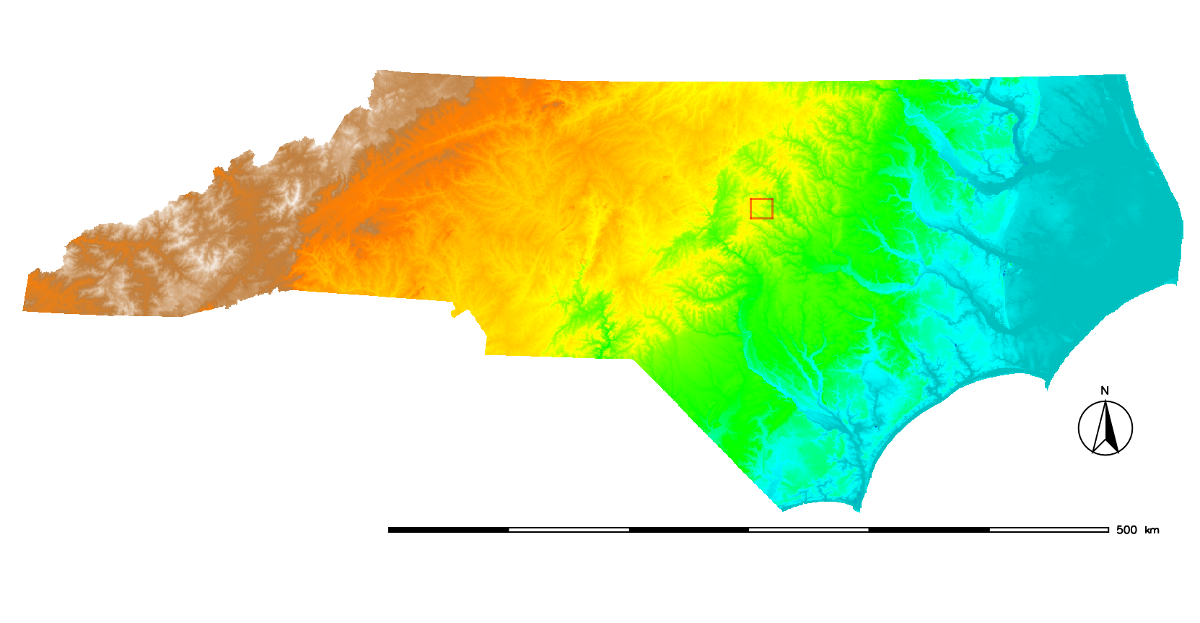
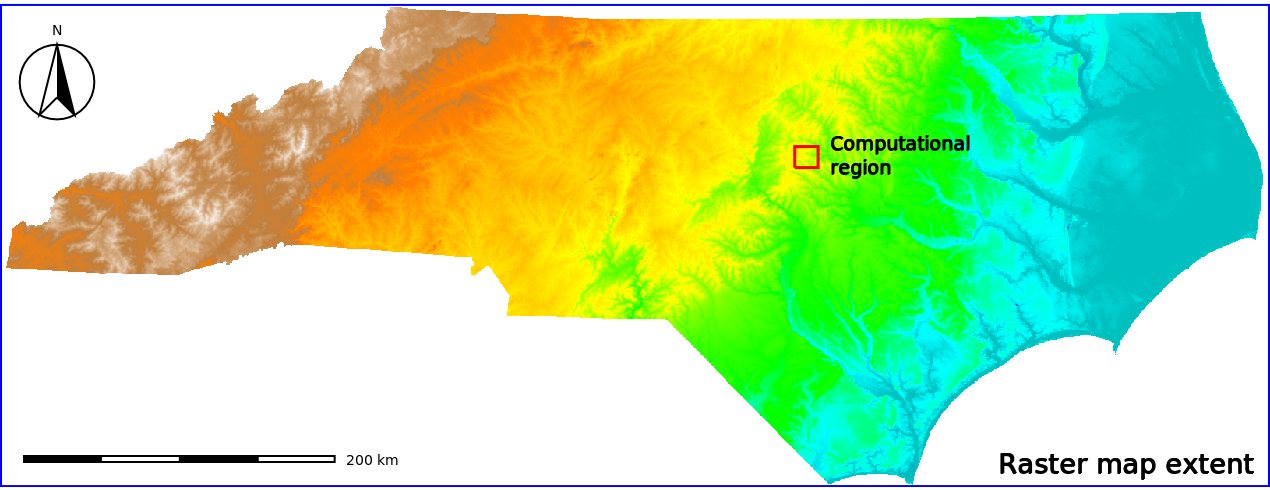
adding several new screenshots, modified index file

diff --git a/index.html b/index.html
@@ -56,7 +56,7 @@ TODO: add 2 more animations or screenshots
         <li><a href="#guidedtour">Working with GRASS GIS: A guided tour</a></li>
         <li><a href="#handson-optatives">Choose your own adventure: 3 hands-on exercises</a></li>
         <ul>
-			<li><a href="#time-series">Time series in GRASS GIS</a></li>
+			<li><a href="time_series_exercise.html" target="_blank">Time series in GRASS GIS</a></li>
 			<li><a href="#L8-remotesensing">Remote sensing</a></li>
 			<li><a href="#paulo">Spatial interpolation?</a></li>
 <!--
@@ -97,14 +97,16 @@ TODO: @Paulo and @Sajid: please add here links to the data you will use (if need
     <h2><a name="grassgisintro">GRASS GIS introduction</a></h2>
 
     Working with GRASS GIS is not much different than any other GIS. Just a few commonly used terms need to be introduced first.
+    <div class="imagebox">
+		<img style="width: 40%;" src="images/start_screen_grass723.png" alt="GRASS start screen" title="GRASS start screen"><br>
+        GRASS GIS start screen: GRASS database, Location and Mapset wizard
+    </div>
 
-    <h3>Basic concepts: GRASS DATABASE, LOCATION and MAPSET</h3>
-    
+    <h3>Basic concepts: GRASS DATABASE, LOCATION and MAPSET</h3>  
     The <b>GRASS DATABASE</b> (also called "GISDBASE") is an existing directory which contains all GRASS GIS projects. These projects are organized in subdirectories called LOCATIONs.<br>
     A <b>LOCATION</b> is defined by its coordinate system, map projection and geographical boundaries. All data within one Location has the same coordinate reference system.<br>
-    <b>MAPSETs</b> are subdirectories within Locations. In a <b>MAPSET</b> you can organize GIS maps thematically, geographically, by project or however you prefer.<br>
-    <p>Within each Location, a mandatory <b>PERMANENT</b> Mapset exists. This mapset can contain commonly used data within a Location such as base maps. The PERMANENT Mapset also contains metadata related to the Location it belongs to such as projection. When GRASS GIS is started, it connects to a Database, Location and Mapset specified by the user.</p>
-    
+    <b>MAPSETs</b> are subdirectories within Locations. In a <b>MAPSET</b> you can organize GIS maps thematically, geographically, by project or however you prefer. Mapsets can also be named after users, for example.<br>
+    <p>Within each Location, a mandatory <b>PERMANENT</b> Mapset exists. This mapset can contain commonly used data such as base maps. The PERMANENT Mapset also contains metadata related to the Location it belongs to such as projection. When GRASS GIS is started, it connects to a Database, Location and Mapset specified by the user.</p>    
     <div class="imagebox">
         <img style="width: 60%;" src="images/grass_database.png" alt="GRASS DATABASE, LOCATIONs, and MAPSETs" title="GRASS DATABASE, LOCATIONs, and MAPSETs"><br>
         GRASS DATABASE, LOCATIONs and MAPSETs
@@ -112,22 +114,23 @@ TODO: @Paulo and @Sajid: please add here links to the data you will use (if need
 	
 	<b>Why this structure?</b>
 	<ul>
-		<li>GRASS has a native format for data, therefore data must be imported or linked into a GRASS LOCATION/MAPSET.</li>
+		<li>GRASS has a native format for raster and vector data, therefore they must be imported or linked into a GRASS Location/Mapset.</li>
 	</ul>
 	<b>What are the advantages?</b> 
 	<ul>
-		<li>GRASS DATABASE, LOCATIONS and MAPSETS are folders that can be easily (zipped and) shared with other users. They just need to (unzip and) move into their GRASS DATABASE (and proper location in case of sharing a mapset).</li>
+		<li>GRASS DATABASE, LOCATIONS and MAPSETS are folders that <b>can be easily (zipped and) shared with other users</b>. The latter just need to (unzip and) move into their GRASS DATABASE (and proper location in case of sharing a mapset).</li>
 		<li>The GRASS DATABASE can be local or remote, and special permissions can be set to specific mapsets in a LOCATION (the PERMANENT mapset is accessible from all other mapsets and users).</li> 
 		<li>Since all data in a LOCATION have necesarily the same CRS, the usual not-matching map projections problem does not exist.</li>
 	</ul>
-	Further details can be found at the <a href="https://grass.osgeo.org/grass73/manuals/grass_database.html" target="_blank">GRASS database</a> manual page.
-    <h3>Data formats supported</h3>
-    GRASS GIS is able to read most raster and vector data formats directly (mainly done through the <a href="http://www.gdal.org/" target="_blank">GDAL</a> library). As mentioned above, GRASS GIS has its own internal formats to manage raster and vector data, so your data have to be imported or linked into a GRASS LOCATION/MAPSET for further processing and analysis.<br><br>
+	Further details can be found at the <a href="https://grass.osgeo.org/grass72/manuals/grass_database.html" target="_blank">GRASS database</a> manual page.
 	
-    The <b>GRASS GIS vector format is topological</b>, this means that adjacent geographic components in a single vector map are related to each other. For example, in a non-topological GIS if two areas share a common border that border would be digitized twice and also stored in a duplicate manner. In a topological GIS such as GRASS GIS, this border exists only once and it is shared between these two areas. The topological representation of vector data helps to produce and maintain vector maps with clean geometry. Moreover, it enables certain analyses that can not be conducted with non-topological or spaghetti data.<br>
+    <h3>Data formats supported</h3>
+    GRASS GIS is able to read most raster and vector data formats directly (mainly done through the <a href="http://www.gdal.org/" target="_blank">GDAL/OGR</a> library). As mentioned above, GRASS GIS has its own internal formats to manage raster and vector data, therefore your data have to be imported or linked into a GRASS LOCATION/MAPSET for further processing and analysis.<br><br>
+	
+    Unlike other GIS, <b>GRASS GIS native vector format is topological</b>, this means that adjacent geographic components in a single vector map are related to each other. For example, in a non-topological GIS if two areas share a common border that border would be digitized twice and also stored in a duplicate manner. In a topological GIS such as GRASS GIS, this border exists only once and it is shared between these two areas. The topological representation of vector data helps to produce and maintain vector maps with clean geometry. Moreover, it enables certain analyses that can not be conducted with non-topological or spaghetti data.<br>
     <div class="imagebox">
-        <img style="width: 60%;" src="images/datatypes.png" alt="Vector data types" title="Vector data types"><br>
-        All vector data types in GRASS GIS
+        <img style="width: 50%;" src="images/datatypes.png" alt="Vector data types" title="Vector data types"><br>
+        Vector data types in GRASS GIS
     </div>
 	<h3>Data types in GRASS GIS</h3>
 	<ul>
@@ -137,10 +140,9 @@ TODO: @Paulo and @Sajid: please add here links to the data you will use (if need
 		<li><a href="https://grass.osgeo.org/grass72/manuals/temporalintro.html" target="_blank">Space-time datasets</a>: collections of raster (<b>STRDS</b>), raster 3D (<b>STR3DS</b>) or vector (<b>STVDS</b>) maps</li>
 	</ul>
     <h3>Modules</h3>
-    GRASS GIS is composed of more than 450 modules to perform any kind of GIS analysis. It is possible to analize raster, raster 3D, imagery and vector maps along with their alphanumerical attributes.<br>
-    The wealth of modules is organized according to their functionality or the data type they take as input. 
-    <p>
-    <table style="width:80%" border="1" align="center" bgcolor="#FFFFFF">
+    GRASS functionality is available through <b>modules</b> (aka tools or functions). GRASS GIS is composed of more than <a href="https://grass.osgeo.org/grass72/manuals/full_index.html" target="_blank">500 modules</a> to perform any kind of GIS analysis. It is possible to analize raster, raster 3D, imagery and vector maps along with their alphanumerical attributes. Modules respect the following naming conventions:<br>
+	<p>
+    <table style="width:65%" border="1" align="center" bgcolor="#FFFFFF">
 	   <caption>GRASS GIS module families</caption>
       <tr>
           <th>Prefix</th>
@@ -204,14 +206,17 @@ TODO: @Paulo and @Sajid: please add here links to the data you will use (if need
       </tr>
     </table>
     <p>
-	The graphical user interface offers a tree view as well as a search engine.
-    <div class="imagebox">
-        <img style="width: 30%;" src="images/module_tree.png" alt="Module tree tab" title="Module tree tab">
-        <img style="width: 30%;" src="images/module_tree_search.png" alt="Module search" title="Module search"><br>
-        Module tree and search engine
-    </div>	
+	These are the main groups of modules. Some modules have multiple dots in their names. This often suggests further grouping. For example, modules staring with t.rast.* deal with time series of raster data.<br><br>
+	The name of the module always relates to its function. For example, <a href="https://grass.osgeo.org/grass72/manuals/v.in.lidar.html" target="_blank">v.in.lidar</a> starts with <em>v</em> so it deals with vector maps; the second part of the name is <em>in</em> which indicates that the module is for importing data into GRASS GIS Spatial Database and; finally the name ends in <em>lidar</em> indicating that it deals with lidar point clouds.
     <p>
-    It is also possible to install further modules, called <b>Add-ons</b>, from a centralized <a href="https://grass.osgeo.org/grass7/manuals/addons/">GRASS GIS Add-on repository</a> at OSGeo or from github using the command <a href="https://grass.osgeo.org/grass72/manuals/g.extension.html">g.extension</a>.
+	The graphical user interface (GUI) offers a module tree view as well as a module search engine to find the function you need either by browsing through the tree or typing the name or part of the name of a module in the search box.
+    <div class="imagebox">
+        <img style="width: 25%;" src="images/module_tree.png" alt="Module tree tab" title="Module tree tab">
+        <img style="width: 25%;" src="images/module_tree_search.png" alt="Module search" title="Module search"><br>
+        Module tree and search engine
+    </div>
+    <p>
+    It is also possible to install further modules, called <b>Add-ons</b>, from a centralized <a href="https://grass.osgeo.org/grass72/manuals/addons/" target="_blank">GRASS GIS Add-on repository</a> at OSGeo or from github (or similar repositories) using the command <a href="https://grass.osgeo.org/grass72/manuals/g.extension.html" target="_blank">g.extension</a>. In the official GRASS GIS Add-on repository there are more than 300 modules that notably extend the capabilities of GRASS GIS.
 	<pre>
 		<code class="neutral">
 # install extension from GRASS GIS Add-on repository
@@ -220,34 +225,73 @@ g.extension extension=r.hants
 # install extension from github repository
 g.extension url=https://github.com/pesekon2/GRASS-GIS-SOS-tools/tree/master/sos/r.in.sos
 		</code>
-		</pre>
-    <h3>Region and Mask</h3>
-    The <b>computational (or current) region</b> is the <i>actual setting of the region boundaries and the actual raster resolution</i>.<br>
-    The raster input maps are automatically (on the fly) cropped/padded and rescaled to match the current region, the output maps have their bounds and resolution equal to those of the current computational region, while vector maps are always considered completely.
+	</pre>
+	
+    <h3>Computational region</h3>
+    The <b>computational region</b> is an important raster concept in GRASS GIS: it is the <i>actual setting of the region boundaries and the actual raster resolution</i>.<br><br>
+    The raster input maps are automatically (on the fly) cropped/padded and rescaled to match the current region, the output maps have their bounds and resolution equal to those of the current computational region, while vector maps are always considered completely.<br><br>
+    Before we use a module to compute a new raster map, we must set properly computational region. All raster computations will be performed in the current region settings, i.e. the current region extent and current raster resolution. If the resolution differs from that of the input raster map(s), on-the-fly resampling is performed (nearest neighbor resampling). If this is not desired, the input map(s) has/have to be resampled beforehand with one of the dedicated modules.<br><br>
+    The <b>computational region</b> can be set and changed by means of <a href="https://grass.osgeo.org/grass72/manuals/g.region.html" target="_blank">g.region</a> to the extent of a vector map (e.g. boundary of a state or county), a raster map or manually to some area of interest. Moreover you can save region settings and reload when necessary. Besides, the region settings persist between GRASS sessions and can be different for different mapsets.
     <div class="imagebox">
         <img style="width: 60%;" src="images/region.png" alt="Show computational region" title="Show computational region"><br>
-        The red box shows the computational region currently set
+        Raster map extent vs. Computational region
     </div>
-    <em>MASK</em>: if a mask is set, raster modules will operate only on data falling inside the masked area(s), i.e. any data falling outside of the mask are treated as if their pixel value were NULL. To set the mask you can use <a href="https://grass.osgeo.org/grass72/manuals/r.mask.html" target="_blank">r.mask</a> or create a raster called <code>MASK</code> (this raster map name is reserved for this purpose).<br>
+    <p>
+    <b>Which are the advantages?</b>
+    <ul>
+		<li>keep your results consistent</li>
+		<li>avoid clipping maps</li>
+		<li>test an algorithm or computationally demanding process in small areas first</li>
+		<li>fine-tune the settings of a certain module</li>
+		<li>run different processes in different areas</li>
+    </ul>
+    </p>
+
+    <h3>Mask</h3>
+    If a mask is set, raster modules will operate only on data falling inside the masked area(s), i.e. any data falling outside of the mask are treated as if their pixel value were NULL. To set the mask you can use <a href="https://grass.osgeo.org/grass72/manuals/r.mask.html" target="_blank">r.mask</a> or create a raster called <code>MASK</code> (this raster map name is reserved for this purpose).<br>
     <div class="imagebox">
-        <img style="width: 60%;" src="images/mask.png" alt="Show MASK effect" title="Show MASK effect"><br>
-        By setting the MASK (here based on a ZIP code) only the raster data inside the masked area are used for further analysis
+        <img style="width: 30%;" src="images/show_lakes.png" alt="Elevation plus lakes" title="Elevation plus lakes">
+        <img style="width: 30%;" src="images/mask_surrounding_lakes.png" alt="Set lakes as mask" title="Set lakes as mask">
+        <img style="width: 30%;" src="images/mask_lakes.png" alt="Set inverse mask lakes" title="Set inverse mask lakes">
+        <br>
+        By setting the MASK (here based on lakes vector map) only the raster data inside the masked area (lakes) are used for further analysis (center). If we want to mask the lakes and analyze the rest, we create an "inverse" mask (right).
     </div>
 
     <h3>Interfaces</h3>
     GRASS GIS offers different interfaces for the interaction between user and software. Let's see them...
-    <h4>Graphical User Interface</h4>
-    The GUI is the simpler way to approach GRASS GIS. The <a href="https://grass.osgeo.org/grass72/manuals/wxGUI.html" target="_blank">GRASS GIS GUI</a> is composed of two elements, the <code>Layer Manager</code> where you can find all the GRASS GIS modules and manage your data and, the <code>Map Display</code> where you can navigate, print and query your maps. The GUI also comes with a Python shell for rapid prototyping.
+     
+    <h4>Graphical User Interface (GUI)</h4>
+    The GUI is the simplest way to approach GRASS GIS. It offers a user-friendly approach to executing modules where the user can navigate to data layers that they would like to analyze and modify processing options with simple check boxes. The GUI also offers an easily accessible manual on how to execute a model. 
+    The <a href="https://grass.osgeo.org/grass72/manuals/wxGUI.html" target="_blank">GRASS GIS GUI</a> is composed of two elements, the <code>Layer Manager</code> where you can find all the GRASS GIS modules and manage your data and, the <code>Map Display</code> where you can navigate, print and query your maps. The GUI also comes with a Python shell for rapid prototyping.
     <div class="imagebox">
         <img style="width: 90%;" src="images/GUI_description.png" alt="GRASS GIS GUI" title="GRASS GIS GUI"><br>
         GRASS GIS Graphical User Interface (GUI)
     </div>
-    Otherwise you can also use GRASS GIS inside QGIS by either using the <code>GRASS GIS plugin</code> or through <code>Processing</code>.
+    Otherwise you can also use GRASS GIS inside QGIS by either using the <b>GRASS GIS plugin</b> or through <b>Processing</b>.
+    
     <h4>Command line</h4>
-    The command line is the traditional and, probably, the most powerful way to use GRASS GIS, used daily by many GRASS GIS power users worldwide.
-<!--
-    TODO: examples, advantages, screenshot
--->
+    The command line is the traditional and, probably, the most powerful way to use GRASS GIS, used daily by many GRASS GIS power users worldwide.<br><br>
+    The command line interface allows users to execute a module using command prompts specific to that module. This is handy when you are running similar analyses with minor modification or are familiar with the module commands for quick efficient processing. 
+    <div class="imagebox">
+        <img style="width: 50%;" src="images/grass_command_line.png" alt="GRASS GIS command line" title="GRASS GIS command line"><br>
+        GRASS GIS command line interface
+    </div>
+	<b>Advantages of the command line</b>
+	<ul>
+		<li>Run “history” to see all your previous commands</li>
+		<li>History is stored individually per MAPSET</li>
+		<li>Search in history with CTRL-R</li>
+		<li>Save them to a file: <code>history > my_protocol.sh</code>, polish/annotate the protocol and re-run with: <code>sh my_protocol.sh</code></li>
+		<li>Call module GUI, set all options and "Copy" the final command for further replication</li>
+		<div class="imagebox">
+			<img style="width: 30%;" src="images/r_slope_aspect_terminal.png" alt="Call module GUI from terminal" title="Call module GUI from terminal">
+			<img style="width: 31%;" src="images/r_slope_aspect_gui.png" alt="Module GUI" title="Module GUI">
+			<br>
+			Calling a module GUI from the terminal 
+		</div>
+	</ul>
+	Remember that there is a simplified command line included in the GUI, tab “Command console”. It offers a “Command prompt protocol” button.
+	
     <h4>Python</h4>
     Python is a powerful and simple programming language, and you can use it to:
     <ul>
@@ -255,6 +299,12 @@ g.extension url=https://github.com/pesekon2/GRASS-GIS-SOS-tools/tree/master/sos/
         <li>create your own workflows chaining several GRASS GIS modules</li>
         <li>create new add-ons by using GRASS GIS modules along with a wide number of Python libraries.</li>
     </ul>
+    <p>
+    The simplest way to execute the Python code which uses GRASS GIS packages is to use Simple Python editor integrated in GRASS GIS accessible from the toolbar or the Python tab in the Layer Manager. Another option is to write the Python code in your favorite plain text editor. Then, run the script in GRASS GIS using the main menu File -> Launch script.
+	<div class="imagebox">
+		<img style="width: 70%;" src="images/simple_python_editor.png" alt="Python console and simple python editor" title="Python console and simple python editor"><br>
+		Python console and simple Python editor
+	</div>
     Here's an example of Python code to run GRASS GIS modules:
     <pre>
 		<code class="python">
@@ -283,49 +333,69 @@ r.colors(map=output, color="elevation")
     </pre>
     <h4>QGIS</h4>
 <!--
-    TODO
+    TODO: add screenshots
 -->
 	<h4>R</h4>
-<!--
-	TODO
--->
+	GRASS GIS and R can be used together in two ways:
+	<ul>
+		<li>Using <b>R within GRASS GIS session</b>, i.e. you start R (or RStudio) from the GRASS GIS command line.</li>
+		<li>Using <b>GRASS GIS within an R session</b>, i.e. you connect to a GRASS GIS Spatial Database from within R (or RStudio).</li>
+	</ul> 
+	A special R package <b>rgrass7</b> provides the necessary interface to read and write data from and into GRASS Database.  More details and examples on both modes can be found in the <a href="https://grasswiki.osgeo.org/wiki/R_statistics/rgrass7" target="_blank">R and GRASS wiki page</a>.
+	<div class="imagebox">
+		<img style="width: 25%;" src="images/R_within_grass.png" alt="Calling R from within GRASS" title="Calling R from within GRASS">
+		<img style="width: 59%;" src="images/Rstudio_from_grass.png" alt="Calling Rstudio from within GRASS" title="Calling Rstudio from within GRASS"><br>
+		Calling R (left) and Rstudio (right) from within GRASS
+	</div>
+
     <h4>WPS - OGC Web Processing Service</h4>
     It is possible to run GRASS GIS modules through the web using the <a href="https://en.wikipedia.org/wiki/Web_Processing_Service" target="_blank">Web Processing Service</a> (WPS is an <a href="https://en.wikipedia.org/wiki/Open_Geospatial_Consortium" target="_blank">OGC</a> standard). The Free and Open Source software <a href="http://zoo-project.org/" target="_blank">ZOO-Project</a> and <a href="http://pywps.org/" target="_blank">PyWPS</a> allow the user to run GRASS GIS commands in a simple way.
 	
-	<h3>Useful commands and getting help</h3>
+	<h3>Useful commands</h3>
 <!--
+TODO @Vero
 	g.list
 	g.remove
 	g.region
 	g.mapset/g.mapsets
 	r.info/v.info
-	
+-->
+	<h3>Getting help</h3>
+<!--
+TODO @Vero
 	for help: g.manual
 	          --help
 	          GUI of each module
 	          wiki
 	          ML
 -->
-	<h3>Common tasks made easy: cool tricks</h3>
 <!--
+	<h3>Common tasks made easy: cool tricks</h3>
 	subsetting? no need to, change the region
-	masking
-	more suggestions welcome
+	--exec flag
 -->
 	<p style="border-top-style: solid; border-width: 5px; border-color: rgb(130, 130, 130); padding-top: 5px;" align="center">
 	<h2><a name="guidedtour">Working with GRASS GIS: A guided tour</a></h2>
 <!--
-TODO: Sajid 
+TODO: @Sajid this is yours
 -->
 	<p style="border-top-style: solid; border-width: 5px; border-color: rgb(130, 130, 130); padding-top: 5px;" align="center">
 	<h2><a name="handson-optatives">Choose your own adventure: 3 hands-on exercises</a></h2>
+	The following are 3 hands-on tutorials on different topics related to raster time series processing, remote sensing images processing and xxxx (@Paulo, pls add). You are free to follow the one you want, all of them or none of them. We will be here for answering questions. Just follow the links and choose your path!
+	<ul>
+		<li><b>Time series in GRASS GIS</b><br>
+			<a href="time_series_exercise.html" target="_blank">
+			<img style="width: 25%;" src="images/animation_nc_zoom.gif" title="Time series in GRASS GIS">
+			</a>
+		</li>
 <!--
-TODO: 
-Temporal exercise (Vero - time_series_exercise.html)
-RS processing (Sajid)
-Another one (Paulo)
+TODO @Sajid and @Paulo: 
+RS processing 
+Another one 
 -->
-    </pre>
+	</ul>
+
+    <p style="border-top-style: solid; border-width: 5px; border-color: rgb(130, 130, 130); padding-top: 5px;" align="center">
     <h2>Other (very) useful links</h2>
     <ul>
         <li>GRASS intro workshop: <a href="https://ncsu-osgeorel.github.io/grass-intro-workshop/" target="_blank">https://ncsu-osgeorel.github.io/grass-intro-workshop/</a></li>
@@ -336,10 +406,10 @@ Another one (Paulo)
     </ul>
     <h2>References</h2>
     <ul>
-        <li>Gebbert, S., Pebesma, E. (2014). <em>A temporal GIS for field based environmental modeling</em>. Environmental Modelling & Software, 53, 1–12. <a href="https://doi.org/10.1016/j.envsoft.2013.11.001" target="_blank">DOI</a></li>
-        <li>Gebbert, S., Pebesma, E. (2017). <em>The GRASS GIS temporal framework</em>. International Journal of Geographical Information Science 31, 1273-1292. <a href="http://dx.doi.org/10.1080/13658816.2017.1306862" target="_blank">DOI</a></li>
         <li>Neteler, M., Bowman, M.H., Landa, M. and Metz, M. (2012): <em>GRASS GIS: a multi-purpose Open Source GIS</em>. Environmental Modelling & Software, 31: 124-130 <a href="http://dx.doi.org/10.1016/j.envsoft.2011.11.014" target="_blank">DOI</a></li>
         <li>Neteler, M., Mitasova, H. (2008): <em>Open Source GIS: A GRASS GIS Approach</em>. Third edition. ed. Springer, New York. <a href="https://grassbook.org/" target="_blank">Book site</a></li>
+        <li>Gebbert, S., Pebesma, E. (2014). <em>A temporal GIS for field based environmental modeling</em>. Environmental Modelling & Software, 53, 1–12. <a href="https://doi.org/10.1016/j.envsoft.2013.11.001" target="_blank">DOI</a></li>
+        <li>Gebbert, S., Pebesma, E. (2017). <em>The GRASS GIS temporal framework</em>. International Journal of Geographical Information Science 31, 1273-1292. <a href="http://dx.doi.org/10.1080/13658816.2017.1306862" target="_blank">DOI</a></li>
     </ul>
     </p>
     <hr>
